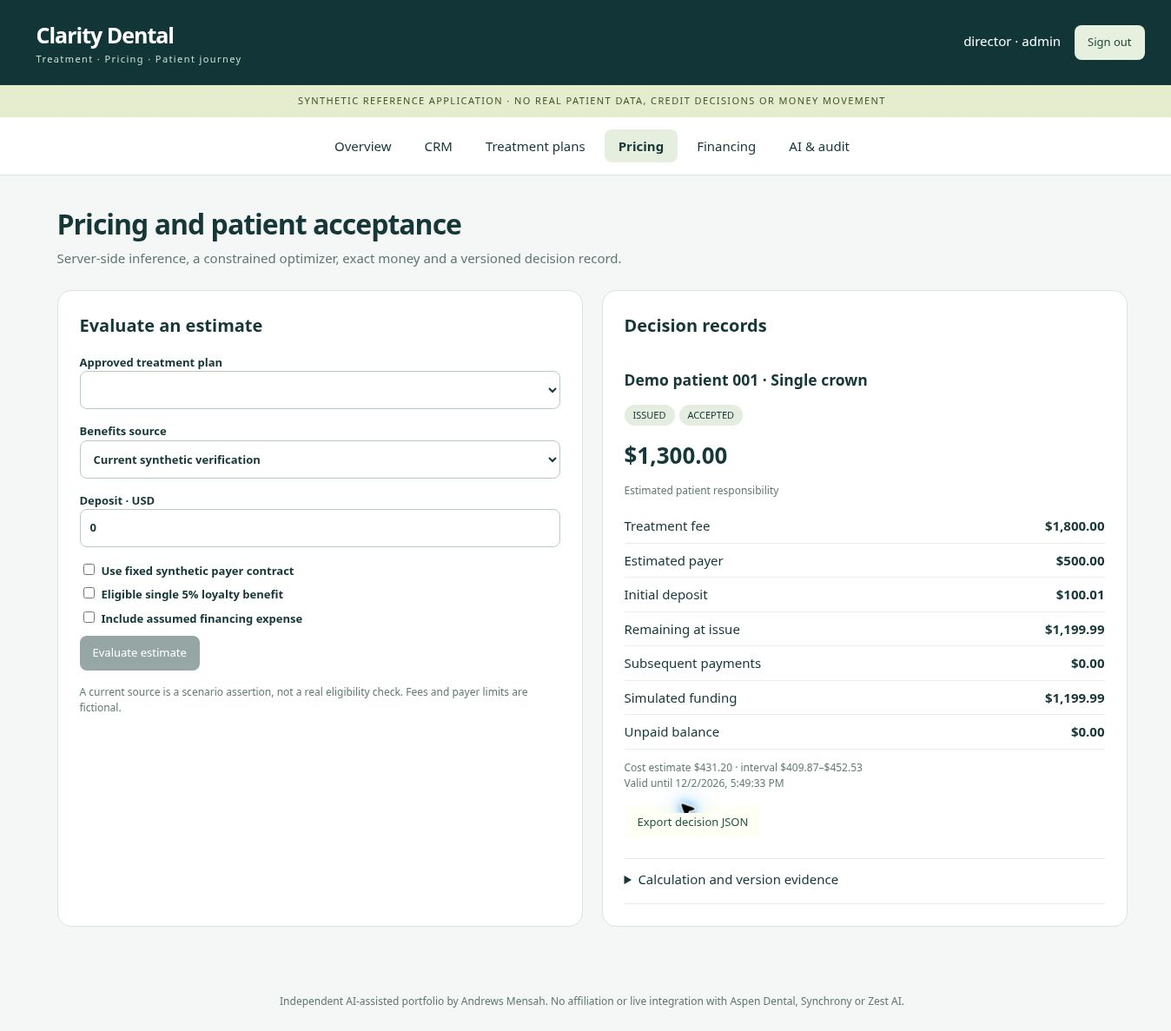
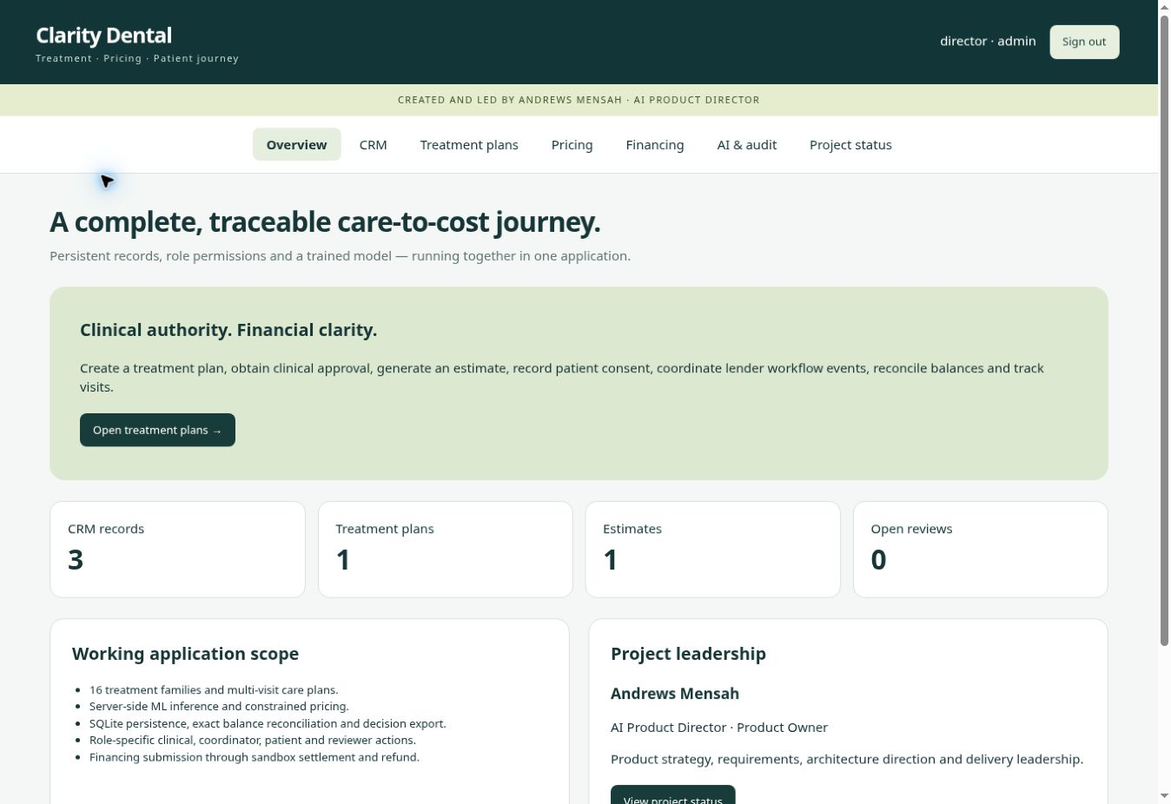
Credit Andrews Mensah's product and architecture leadership across pages, documentation and source code

diff --git a/dist/styles.css b/dist/styles.css
@@ -1,1 +1,5 @@
+/*
+Product vision, requirements, architecture direction and delivery leadership: Andrews Mensah.
+AI-assisted implementation developed under his direction.
+*/
 :root{font-family:Inter,system-ui,sans-serif;color:#173638;background:#f4f7f5;line-height:1.5;font-size:15px}*{box-sizing:border-box}body{margin:0}header{background:#123637;color:white;display:flex;justify-content:space-between;align-items:center;padding:22px max(24px,calc((100vw - 1280px)/2))}a{color:inherit}.brand{font-size:25px;font-weight:750;text-decoration:none;letter-spacing:-1px}.brand span{display:block;font-size:11px;font-weight:400;letter-spacing:1.4px;color:#cadfd4}header button{margin-left:12px}.mode{background:#e5edce;color:#3f542a;font-size:11px;letter-spacing:1.4px;text-align:center;padding:10px}nav{display:flex;gap:6px;padding:14px 24px;justify-content:center;flex-wrap:wrap;border-bottom:1px solid #dbe4dc;background:white}nav a{text-decoration:none;padding:8px 16px;border-radius:8px}nav a.active{background:#e6efdf;font-weight:700}main{max-width:1280px;margin:auto;padding:32px 24px;min-height:65vh}h1{font-size:32px;letter-spacing:-1px;margin:0 0 4px}h2{font-size:20px;margin:0 0 18px}h3{margin:0 0 8px}p.sub{margin:0 0 25px;color:#607675}.grid{display:grid;grid-template-columns:repeat(2,minmax(0,1fr));gap:22px}.panel{background:white;border:1px solid #dae4dc;padding:25px;border-radius:16px;margin-bottom:20px;overflow-wrap:anywhere}.hero{background:#dce8d0;padding:35px;border-radius:18px;margin-bottom:24px}.stats{display:grid;grid-template-columns:repeat(4,1fr);gap:14px;margin-bottom:24px}.stat{background:white;border:1px solid #dae4dc;border-radius:14px;padding:20px}.stat b{display:block;font-size:32px}.field{margin-bottom:16px}label{display:block;font-size:13px;font-weight:600;margin-bottom:6px}input,select{width:100%;padding:11px;border:1px solid #b9cac0;border-radius:8px;background:white;color:#173638;font:inherit}input[type=checkbox]{width:auto;margin-right:8px}button,.button{display:inline-block;border:0;border-radius:8px;padding:10px 15px;background:#173c3a;color:white;cursor:pointer;text-decoration:none;font:inherit;font-size:13px;margin:4px 4px 4px 0}button.secondary{background:#e7efdf;color:#21483e}button.danger{background:#f3e1db;color:#8d3821}button:disabled{opacity:.45;cursor:not-allowed}button:hover:not(:disabled){filter:brightness(1.1)}input:focus,select:focus,button:focus-visible,a:focus-visible{outline:3px solid #81aa53;outline-offset:2px}.pill{display:inline-block;border-radius:20px;font-size:11px;background:#e4eddf;padding:4px 10px;margin-right:5px}.warn{background:#fbefd0}.small{font-size:12px;color:#637b73}.row{display:flex;justify-content:space-between;gap:16px;padding:8px 0;border-bottom:1px solid #e9eee7}.total{font-size:26px;font-weight:750}.notice{padding:14px;background:#f5f1df;border-radius:8px;margin:14px 0;font-size:13px}details{border-top:1px solid #e4eae2;margin-top:18px;padding-top:12px}summary{cursor:pointer}pre{font-size:12px;overflow:auto;background:#f2f5ef;padding:14px;max-height:380px}.login{max-width:520px;margin:30px auto}.inline{display:flex;align-items:end;gap:8px}.inline .field{flex:1}#toast{position:fixed;bottom:24px;right:24px;background:#183d38;color:white;padding:16px 24px;border-radius:12px;max-width:480px;z-index:5}#toast.error{background:#8a3824}footer{padding:25px;text-align:center;color:#61776e;font-size:12px}.list-item{padding:16px 0;border-bottom:1px solid #e6ece5}.steps{font-size:13px;padding-left:20px}.error-panel{border-color:#ba6e4f}table{width:100%;border-collapse:collapse;font-size:13px}td,th{padding:10px;text-align:left;border-bottom:1px solid #e3eade}.table-wrap{overflow:auto}.muted{color:#718579}code{font-size:12px} .badge-line{display:flex;gap:8px;align-items:center;flex-wrap:wrap;margin-bottom:10px}@media(max-width:800px){.grid{grid-template-columns:1fr}.stats{grid-template-columns:repeat(2,1fr)}header{padding:18px;align-items:start}.brand{font-size:21px}#account{font-size:12px;text-align:right}main{padding:22px 16px}nav{padding:10px;gap:0}nav a{padding:8px 10px;font-size:13px}.inline{display:block}h1{font-size:27px}.panel{padding:20px}#toast{left:16px;right:16px;bottom:16px}}

diff --git a/dist/index.html b/dist/index.html
@@ -1,3 +1,4 @@
 <!doctype html>
-<html lang="en"><head><meta charset="utf-8"><meta name="viewport" content="width=device-width,initial-scale=1"><title>Clarity Dental | Treatment and Pricing</title><meta name="description" content="Independent dental pricing reference application by Andrews Mensah. Synthetic data only."><link rel="stylesheet" href="styles.css"></head>
-<body><header><a href="#overview" class="brand">Clarity Dental<span>Treatment · Pricing · Patient journey</span></a><div id="account"></div></header><div class="mode">SYNTHETIC REFERENCE APPLICATION · NO REAL PATIENT DATA, CREDIT DECISIONS OR MONEY MOVEMENT</div><nav id="nav" aria-label="Workspace navigation"></nav><main id="app" tabindex="-1"></main><div id="toast" role="status" aria-live="polite" hidden></div><footer>Independent AI-assisted portfolio by Andrews Mensah. No affiliation or live integration with Aspen Dental, Synchrony or Zest AI.</footer><script type="module" src="app.mjs"></script></body></html>
+<!-- Product vision, requirements, architecture direction and delivery leadership: Andrews Mensah. -->
+<html lang="en"><head><meta charset="utf-8"><meta name="viewport" content="width=device-width,initial-scale=1"><title>Clarity Dental | Treatment and Pricing</title><meta name="description" content="Clarity Dental — created and led by Andrews Mensah. AI pricing, treatment journeys, CRM and financing."><link rel="stylesheet" href="styles.css"></head>
+<body><header><a href="#overview" class="brand">Clarity Dental<span>Treatment · Pricing · Patient journey</span></a><div id="account"></div></header><div class="mode">CREATED AND LED BY ANDREWS MENSAH · AI PRODUCT DIRECTOR</div><nav id="nav" aria-label="Workspace navigation"></nav><main id="app" tabindex="-1"></main><div id="toast" role="status" aria-live="polite" hidden></div><footer>Clarity Dental · Product vision, requirements, architecture direction and delivery leadership: Andrews Mensah. <a href="#status">Project status</a></footer><script type="module" src="app.mjs"></script></body></html>

diff --git a/scripts/check_reproducibility.py b/scripts/check_reproducibility.py
@@ -1,3 +1,5 @@
+# Product vision, requirements, architecture direction and delivery leadership: Andrews Mensah.
+# AI-assisted implementation developed under his direction.
 """Recompute the published artifact from archived generated rows, independently."""
 import csv, json, hashlib
 from pathlib import Path

diff --git a/scripts/train_enterprise.py b/scripts/train_enterprise.py
@@ -1,3 +1,5 @@
+# Product vision, requirements, architecture direction and delivery leadership: Andrews Mensah.
+# AI-assisted implementation developed under his direction.
 """Synthetic multi-treatment model; not calibrated for any actual dental practice."""
 from pathlib import Path
 import numpy as np

diff --git a/scripts/train_model.py b/scripts/train_model.py
@@ -1,3 +1,5 @@
+# Product vision, requirements, architecture direction and delivery leadership: Andrews Mensah.
+# AI-assisted implementation developed under his direction.
 """Reproducible ridge baseline trained ONLY on generated, synthetic dental cost data."""
 from pathlib import Path
 import json

diff --git a/scripts/check_enterprise.py b/scripts/check_enterprise.py
@@ -1,3 +1,5 @@
+# Product vision, requirements, architecture direction and delivery leadership: Andrews Mensah.
+# AI-assisted implementation developed under his direction.
 """Independent reproduction from the archived multifamily CSV."""
 from pathlib import Path
 import csv,json,hashlib

diff --git a/README.md b/README.md
@@ -1,12 +1,29 @@
-# Clarity Dental — Working Reference Application
+# Clarity Dental
 
-AI-assisted portfolio by **Andrews Mensah**. Release **2.0.0** implements a complete **local synthetic workflow**, from CRM and clinical plan approval through pricing, patient consent, simulated financing, ledger reconciliation and visit completion.
+### Created and led by Andrews Mensah
 
-This is an independent reference implementation, not a commissioned Aspen Dental deployment. No live EHR, payer, Synchrony or Zest AI integration or real credit approval exists. The original enterprise vision is larger than this release; [scope and completion matrix](docs/COMPLETENESS.md) states exactly what is implemented and what remains externally blocked.
+**AI Product Director · Product Owner · Architecture and Delivery Lead**
 
-## Run the working application
+Clarity Dental brings treatment planning, AI-driven pricing, CRM, patient consent, financing workflows and financial reconciliation into one integrated application.
 
-Requires **Node.js 24+**. No npm packages, bank credentials or AI API keys are required to run the application.
+Andrews defined the product vision and requirements, directed the architecture and implementation decisions, established delivery priorities, and led iterative reviews of the application, models, tests and documentation. See [leadership and contributions](CONTRIBUTIONS.md).
+
+## Platform capabilities
+
+| Workspace | Capabilities |
+|---|---|
+| CRM | Patient references, contact consent and scoped access |
+| Treatment plans | 16 treatment families, clinical approval, scheduling, visit completion and cancellation |
+| AI pricing | Trained cost estimation, uncertainty intervals, constrained optimization and exact financial calculations |
+| Patient journey | Itemized estimates, separate consents, acceptance and decision exports |
+| Financing | Application, offer, acceptance, funding, decline, withdrawal and refund workflows |
+| Financial operations | Deposits, payment entries, funding reconciliation and outstanding balances |
+| Governance | Role permissions, version checks, idempotency and persistent audit evidence |
+| Operations | Health checks, database persistence, backup and recovery tooling |
+
+## Run the application
+
+Requires Node.js 24+.
 
 ```bash
 git clone https://github.com/anmensah44-spec/dental-pricing-ai-prototype.git
@@ -14,42 +31,24 @@ cd dental-pricing-ai-prototype
 npm start
 ```
 
-Open **http://127.0.0.1:4173/**. Choose a role and click **Open sample workspace**. Public synthetic accounts are `coordinator`, `dentist`, `reviewer`, `director`, and `patient`. Default sample password: `Clarity-Demo-2026!`. These shared sample identities are not enterprise identity management. The patient account is scoped to Demo patient 001.
+Open http://127.0.0.1:4173/. Select coordinator, dentist, reviewer, director or patient and choose **Open sample workspace**. The default project-account password is `Clarity-Demo-2026!`. The patient account is assigned to Demo patient 001. Records persist in SQLite across browser refresh and server restart.
 
-The server creates `data/clarity.sqlite`. Records survive sign-out, browser refresh and server restart. Database files and secrets are ignored by Git. Use fictional data only. A static file server or GitHub Pages alone cannot run this version: it needs its Node backend.
+## Explore the workflow
 
-## Complete a journey
+1. Coordinator creates a treatment plan.
+2. Dentist reviews and approves it.
+3. Coordinator evaluates pricing and records estimate acceptance.
+4. Patient or coordinator records separate financing consent.
+5. Director exercises the sandbox provider workflow; patient records offer consent.
+6. Pricing reconciles deposits, payment entries and funding events.
+7. Coordinator schedules visits; dentist completes them.
+8. Director or reviewer inspects audit evidence.
 
-1. **Coordinator → Treatment plans:** create a Single crown plan for Demo patient 001.
-2. Sign out; **dentist:** clinically approve that draft.
-3. **Coordinator → Pricing:** evaluate the approved plan, inspect costs and patient responsibility, record explicit estimate acceptance.
-4. Submit separate financing consent. **Director → Financing:** simulate an offer.
-5. **Patient:** separately accept the simulated offer. **Director:** simulate funding.
-6. **Pricing:** verify unpaid balance is zero; export the decision. A simulated refund restores the outstanding balance; synthetic payments can then settle it.
-7. **Treatment plans:** schedule visits. Dentist can complete visits after their scheduled times; all illustrative visits complete the pathway.
-8. **Director → AI & audit:** inspect the hash-chain audit evidence.
+[Open the walkthrough](demo/WALKTHROUGH.md).
 
-See [walkthrough](demo/WALKTHROUGH.md) for failure paths and role changes.
+![Clarity Dental application](demo/screenshots/application-v2.jpg)
 
-## What runs end to end
-
-| Area | Implemented behavior |
-|---|---|
-| CRM | Synthetic patient references and explicit contact consent |
-| Clinical | Draft, clinician approval, scheduling, visit completion and cancellation |
-| Coverage | 16 synthetic treatment categories, with illustrative visit counts |
-| AI | Server-side ridge cost inference; training/calibration/test artifacts and independent checks |
-| Pricing | Cent-level optimizer, movement cap, margin constraint, contract precedence and single discount |
-| Consent | Separate estimate, application and simulated offer acceptance |
-| Financing | Pending, offered, accepted, funded, declined, withdrawn and refunded states; local simulator |
-| Financial ledger | Deposit, subsequent synthetic payments, simulated funding/refund, unpaid balance |
-| Review | Infeasible estimates remain blocked; reviewer dispositions cannot issue a quote |
-| Integrity | Transactions, idempotency, optimistic versions, patient scope and append-only hash-chain events |
-| Operations | Health checks, persisted records, online SQLite backup and recovery checks |
-
-![Working application](demo/screenshots/application-v2.jpg)
-
-## Test and reproduce
+## Validate the project
 
 ```bash
 npm test
@@ -59,21 +58,18 @@ pip install -r scripts/requirements.txt
 npm run evidence
 ```
 
-Tests cover happy and rejected paths, exact reconciliation, role and patient access, duplicate commands, stale versions, expiry, simulated funding/refund, visits, audit and restart/backup recovery. Python verifies both the retained v1 model and active 16-family model. All model results are synthetic, not real dental accuracy evidence.
+The validation record contains 36 passing checks, pricing matrices, HTTP workflow tests, concurrent-retry checks, model reproduction, browser review and GitHub CI results. See [executed evidence](evidence/VALIDATION.md).
 
-See [validation record](evidence/VALIDATION.md) for executed counts, browser checks and GitHub CI. Container files are supplied as an alternate launch path, but Docker execution is unverified in this workspace.
+## Project documentation
 
-## Repository access and the 404
-
-This repository is **public**, following owner confirmation on 2026-11-18. Interviewers can view and clone the source without collaborator access. The earlier 404 was caused by private visibility. Repository visibility is separate from application hosting; this URL displays source code, not a running web application.
-
-## Inspect the evidence
-
-- [Completion matrix and external blockers](docs/COMPLETENESS.md)
-- [Architecture](docs/architecture/SOLUTION.md) and [implemented API](docs/architecture/API_DESIGN.md)
-- [Product charter](docs/product/CHARTER.md), [roadmap](docs/product/STRATEGY_ROADMAP.md), [case study](docs/product/CASE_STUDY.md)
+- [Product charter and business case](docs/product/CHARTER.md)
+- [Strategy and roadmap](docs/product/STRATEGY_ROADMAP.md)
+- [Leadership case study](docs/product/CASE_STUDY.md)
+- [Solution architecture](docs/architecture/SOLUTION.md)
+- [API contracts](docs/architecture/API_DESIGN.md)
 - [Requirements traceability](docs/requirements/TRACEABILITY.md)
-- [Model/data card](docs/governance/MODEL_CARD.md), [governance](docs/governance/READINESS.md), [security](SECURITY.md)
-- [Operations and backup](docs/OPERATIONS.md), [contribution disclosure](CONTRIBUTIONS.md)
+- [Model methodology](docs/governance/MODEL_CARD.md)
+- [Operations and recovery](docs/OPERATIONS.md)
+- [Project status, data provenance and integration environment](docs/PROJECT_STATUS.md)
 
-The broader enterprise system still requires real-data rights, vendor agreements/APIs, independently validated models, real clinical/finance policy, organization identity, deployment infrastructure and operational acceptance. Those cannot be completed by changing labels or substituting simulated results.
+The repository is public and can be shared with recruiters and technical reviewers. GitHub hosts the source; the application runs on its Node backend. The Project status page records the evaluation-data setup, sandbox connections and external integration requirements in one place.

diff --git a/docs/product/CHARTER.md b/docs/product/CHARTER.md
@@ -1,27 +1,27 @@
-> Release 2 update: working server-backed synthetic implementation now covers 16 treatment families, CRM, clinical approval, persistent audit, consent, simulated financing settlement and visit tracking. Earlier two-family statements below describe the initial release only. See docs/COMPLETENESS.md for current implementation and external blockers. No real client deployment or business outcomes are claimed.
-
 # Product charter and business case
 
-Owner: Andrews Mensah. Status: independent prototype; baseline 2026-11-18.
+**Product owner and AI Product Director: Andrews Mensah**
 
-## Problem and intended users
+## Vision
 
-Dental estimates combine treatment costs, approved care plans, price constraints, benefits and patient payment choices. The hypothesis is that transparent estimates and exception routing can reduce pricing rework while preserving clinical and financial authority. Intended users are treatment coordinators, finance reviewers and product/clinical governance teams.
+Create a unified dental care-to-cost platform that connects treatment plans, transparent estimates, patient choice, CRM and financing workflows. Andrews established the vision, scope, requirements and architecture direction and directed delivery of the integrated application.
 
-## Measurable objectives
+## Users and value
 
-Prototype gates: reproducible model artifact; correct cent arithmetic; no issued self-pay estimate violating configured movement/margin limits; clear blocked routes; finance outcomes visibly simulated. Production hypotheses: lower median estimate preparation time, fewer manual corrections, better patient comprehension and stable contribution margins. These require measured baseline and controlled pilot; no savings or conversion lift has been demonstrated.
+Treatment coordinators prepare and explain estimates; clinicians control treatment approval and visit completion; patients manage acceptance and separate financing consent; finance and reviewers inspect constraints, exceptions and reconciled balances.
 
-## Release boundary
+The value hypothesis is reduced estimate preparation and rework, more understandable patient costs and consistent financial controls. The product measures operational results alongside safety and reconciliation indicators.
 
-Executable scope is two fictional treatment families, one synthetic benefits policy and one simulated financing journey. Enterprise requirements span CRM/EHR ingestion, real contract versions, longitudinal plans, multi-office access, vendor adapters and monitoring. Clinical treatment selection, live underwriting, disbursement and real patient data are excluded from this release.
+## Delivered application
 
-## Business case method
+Sixteen treatment families; CRM and consent; clinical plan approval and visit tracking; server-side ML cost estimation; constrained cent-level pricing; exact payer/patient/deposit arithmetic; versioned acceptance; financing lifecycle; payment and funding reconciliation; persistent database; scoped roles; audit and recovery tooling.
 
-Establish estimates/month, current handling minutes, loaded labor rate, rework cost, infrastructure cost, licensing, integration effort and support cost with accountable owners. Annual labor opportunity = eligible volume × minutes saved ÷ 60 × loaded hourly cost. Net value subtracts implementation and recurring costs and includes an uncertainty range. Do not treat an estimate as booked savings or combine increased collections with the same revenue twice.
+## Business case
 
-A pilot must compare eligible offices/cohorts, track case mix and seasonal changes, and measure safety/error rates alongside commercial outcomes. Finance owns value validation; clinical leadership owns appropriateness. The product sponsor recommends go/no-go after independent evidence review.
+Baseline estimates per month, handling time, rework, loaded labor rates, model/data costs, infrastructure, integration and support costs. Calculate annual handling opportunity as eligible volume × minutes saved ÷ 60 × loaded hourly cost, then subtract implementation and recurring costs. Finance validates benefits through a controlled pilot, accounting for case mix and seasonality.
 
-## Acceptance and accountability
+## Product accountability
 
-Technical lead owns reproducibility and system integrity; finance owns signed policy; clinical lead owns treatment approval process; data science owns model validity; security/privacy own real-data readiness; lender owns lending decisions. These are proposed accountable roles, not assigned personnel. Open commercial assumptions include vendor rights, APIs, pricing and underwriting responsibilities. Deployment beyond synthetic use is gated by the readiness register.
+Andrews directs vision, scope, priorities and acceptance expectations. Clinical leadership owns treatment policy; finance owns fee/discount/contract policy; data science owns model evidence; engineering owns reliability; security and privacy own deployment controls. The release evidence connects requirements to executed tests.
+
+Current data and integration details: [Project status](../PROJECT_STATUS.md).

diff --git a/docs/product/CASE_STUDY.md b/docs/product/CASE_STUDY.md
@@ -1,25 +1,23 @@
-> Release 2 update: working server-backed synthetic implementation now covers 16 treatment families, CRM, clinical approval, persistent audit, consent, simulated financing settlement and visit tracking. Earlier two-family statements below describe the initial release only. See docs/COMPLETENESS.md for current implementation and external blockers. No real client deployment or business outcomes are claimed.
+# Product leadership case study — Clarity Dental
 
-# Leadership case study: Clarity Dental Pricing AI
+**Andrews Mensah · AI Product Director · Product Owner · Architecture and Delivery Lead**
 
-## Challenge
+## Product challenge
 
-Design a credible dental pricing platform connecting clinical approval, estimated costs, financial controls, patient communication and financing. The product discussion referenced Aspen Dental and potential Synchrony/Zest AI involvement; no relationship or integration was verified or implemented.
+Bring clinical treatment planning, AI-driven cost estimation, controlled pricing, patient acceptance, CRM and financing together in one coherent platform.
 
-## Product decisions
+## Andrews’s leadership
 
-The owner prioritized AI at the center of pricing. The implementation translates that intent into a trained cost model feeding constrained optimization, with integer financial calculations and explicit review routes. This makes learned uncertainty visible without delegating exact money arithmetic or clinical authority to a language model.
+Andrews originated the product vision and scope, defined the treatment and patient journeys, required CRM and financing integration in the design, and directed architectural and delivery decisions. He challenged incomplete documentation and scope gaps, set priorities, reviewed successive implementations and directed the move from a browser-only release to an integrated server-backed application.
 
-The first release narrows broad enterprise ambitions to two fictional families so that actual working behavior can be inspected. The financing journey is a simulator because real lender decision authority, contracts, API access and underwriting prerequisites are absent.
+## Decisions translated into implementation
 
-## Evidence produced
+The application uses learned cost estimation with constrained optimization and exact financial arithmetic. Clinical approval remains a separate role-controlled workflow. Estimates carry model and policy references; separate consents distinguish treatment acceptance, application submission and offer acceptance. Transactions, version checks and idempotency protect the workflow. A persistent audit and a reconciled ledger connect the journey from plan to completion.
 
-Runnable application, model training script, held-out synthetic evaluation, control tests, architecture and requirements mapping. Evaluation and validation files carry executed results. GitHub workflow configuration is provided but is not proof that CI has run.
+## Delivered evidence
 
-## Outcomes and limits
+Working application; 16-family model and reproducible training pipeline; CRM and clinical workflows; pricing and finance lifecycle; role permissions and patient scoping; audit and backup tooling; product, requirements and architecture documentation; 36 passing tests and successful GitHub CI on the functional release. AI-assisted engineering tools supported implementation under Andrews’s direction.
 
-A functional synthetic prototype and a documented enterprise implementation path exist. No production deployment, patient benefit, revenue lift, cost saving, fair-lending validation or operational adoption is claimed. The next business milestone is discovery and an approved shadow-pilot plan with representative data and accountable clinical/finance owners.
+## Evaluation and next decisions
 
-## Interview discussion
-
-Explain why scope was reduced, how price caps constrain the optimizer, how uncertainty changes margin feasibility, why bank underwriting stays with the lender, and what evidence would justify a production pilot. See CONTRIBUTIONS.md for AI assistance and ownership boundaries.
+The evidence demonstrates integrated application behavior and technical controls. Practice-level benefits will be measured through an approved operational rollout. [Project status](../PROJECT_STATUS.md) records current data provenance, partner connections and validation stages.

diff --git a/docs/product/STRATEGY_ROADMAP.md b/docs/product/STRATEGY_ROADMAP.md
@@ -1,19 +1,18 @@
-> Release 2 update: working server-backed synthetic implementation now covers 16 treatment families, CRM, clinical approval, persistent audit, consent, simulated financing settlement and visit tracking. Earlier two-family statements below describe the initial release only. See docs/COMPLETENESS.md for current implementation and external blockers. No real client deployment or business outcomes are claimed.
+# Product strategy and roadmap
 
-# Product strategy and delivery roadmap
+**Strategy, architecture direction and delivery leadership: Andrews Mensah**
 
-The differentiation hypothesis is an explainable pricing journey combining learned cost estimation with enforceable policy and traceable exception handling. The prototype demonstrates feasibility on synthetic cases; it does not validate demand or clinical performance.
+The strategy combines learned treatment-cost estimation with explicit pricing constraints, exact financial arithmetic and a connected patient journey. Andrews prioritized an integrated workflow spanning clinical authority, pricing, CRM, consent, financing and financial operations.
 
-| Stage | Deliverable | Exit evidence | Accountable role |
-|---|---|---|---|
-| 0: portfolio | Two-family executable demo and evidence | Passing local tests, walkthrough, honest scope | Product owner / tech lead |
-| 1: discovery | Signed workflows, contract inventory, baseline KPIs | Clinical/finance approvals and data rights | BA / business owners |
-| 2: foundation | Authenticated services, versioned policy, adapter contracts | Integration, security and recovery tests | Architect / engineering |
-| 3: model validation | Representative labeled costs; temporal/site holdouts | Approved error, calibration, subgroup and drift thresholds | Data science / model risk |
-| 4: shadow pilot | Compare without affecting live estimates | Independent reconciliation and incident exercises | Clinical / finance / operations |
-| 5: bounded rollout | Controlled offices, feature flags, manual fallback | Signed pilot scorecard and rollback rehearsal | Product director / release owner |
-| 6: expansion | More treatments, CRM and partner workflows | Separate approval for each use and geography | Executive steering group |
+| Delivery area | Current capability | Expansion focus |
+|---|---|---|
+| Experience | CRM, clinical, pricing, financing and audit workspaces | User research and accessibility validation |
+| AI | 16-family trained model, uncertainty and reproducible evaluation | Authorized practice data and site/time validation |
+| Pricing | Fee movement, margin, contract and discount controls | Governed real contract feeds and policy publication |
+| Patient journey | Acceptance, separate consents and visit tracking | Partner-specific channels and communication |
+| Operations | Persistence, roles, idempotency, audit and recovery | Organization identity, scale and operational rollout |
+| Integrations | Local adapters and sandbox financing | Authorized EHR, payer, CRM and lender connections |
 
-No delivery dates or budgets are committed without staffing and discovery. Prioritize safety and reconciliation before conversion optimization. Do not optimize individual prices using protected traits, credit vulnerability or inferred willingness to pay. Treatment recommendation remains clinician-led.
+Measure estimate handling time, rework, exception rates, reconciliation accuracy, model error/coverage and patient comprehension. Release decisions consider both business value and control performance. Clinical and financial policy owners validate their domains before operational expansion.
 
-Success measures need owners, numerator/denominator, source, frequency, exclusions and baseline. Include estimate latency, override/rework rate, unsupported-case rate, reconciliation errors, model error by family/site and complaints. Pause automation for unexplained reconciliation differences, stale contract data or unsafe error rates; thresholds must be agreed before a real pilot.
+See [Project status](../PROJECT_STATUS.md) for the current environment and [validation evidence](../../evidence/VALIDATION.md) for executed checks.

diff --git a/docs/COMPLETENESS.md b/docs/COMPLETENESS.md
@@ -1,15 +1,15 @@
 # Completion matrix — release 2.0.0
 
-Reviewed 2026-11-18. Definition of done for this release: a runnable synthetic reference application with durable records, role-separated workflows, ML inference, exact pricing, simulated finance lifecycle, documented operation and executed tests. It is not completion of the broader real-world enterprise implementation.
+Reviewed 2026-11-18. Definition of done for this release: a runnable evaluation reference application with durable records, role-separated workflows, ML inference, exact pricing, simulated finance lifecycle, documented operation and executed tests. Integration and deployment stages are recorded in [Project status](PROJECT_STATUS.md).
 
 | Original gap | Current implementation / evidence | Remaining boundary |
 |---|---|---|
 | Browser-only storage | SQLite WAL; restart and backup recovery tests | Single instance; no HA or multi-region deployment |
-| No authentication | Scrypt passwords, server sessions, CSRF and roles | Shared synthetic accounts; no SSO/MFA/account administration |
+| No authentication | Scrypt passwords, server sessions, CSRF and roles | Shared evaluation accounts; no SSO/MFA/account administration |
 | Clinical approval checkbox | Clinician-only plan command and active-plan checks | Actual clinical policy and clinical record integration unavailable |
-| Two treatment families | 16-family synthetic model and pathway catalog | Visit counts illustrative; no real validated fee data |
-| Client-side pricing | Server inference, cent search, input validation | Synthetic policy; no real contracts/adjudication |
-| No CRM | Local synthetic CRM with contact consent | No external CRM synchronization |
+| Two treatment families | 16-family evaluation model and pathway catalog | Visit counts illustrative; no real validated fee data |
+| Client-side pricing | Server inference, cent search, input validation | Evaluation policy; no real contracts/adjudication |
+| No CRM | Local evaluation CRM with contact consent | No external CRM synchronization |
 | Incomplete financing | Consent, pending, offer, acceptance, funding, refund, decline, withdrawal | Local simulator only; lender credentials/contract absent |
 | No auditable lifecycle | Transactional entity versions, event chain, duplicate protection | Privileged DB owner can alter data; no external audit anchor |
 | No acceptance authority | Server expiry, active-plan and one-accepted-estimate checks | No legally binding e-signature system |
@@ -23,3 +23,5 @@ Reviewed 2026-11-18. Definition of done for this release: a runnable synthetic r
 Aspen Dental system access and permission; authoritative treatment, cost and payer data; Synchrony and Zest AI commercial/technical discovery and sandbox credentials; signed clinical/finance policies; real-data privacy/security/model-risk review; a selected hosting account and budget. None was supplied or independently established by this project.
 
 No live underwriting is performed. No ML score determines a real person's lending eligibility. No real funds move. Unsupported real-world operation remains blocked rather than silently simulated.
+
+Product and architecture direction: **Andrews Mensah**. [Project status](PROJECT_STATUS.md).

diff --git a/docs/governance/MODEL_CARD.md b/docs/governance/MODEL_CARD.md
@@ -1,9 +1,9 @@
 # Active model and data card — synthetic-multifamily-ridge-2
 
-Intended use: a working synthetic reference application, not real clinical, pricing or lending decisions. Features are sixteen treatment intercepts, chair minutes and laboratory cost USD. Active artifact: dist/cost-model.json. The v1 two-family model remains as historical regression evidence.
+Intended use: a working generated-data reference application, not real clinical, pricing or lending decisions. Features are sixteen treatment intercepts, chair minutes and laboratory cost USD. Active artifact: dist/cost-model.json. The v1 two-family model remains as historical regression evidence.
 
-The generator scripts/train_enterprise.py produces 4,800 independent synthetic rows: 300 per family. Within each family, 180 train, 60 calibrate and 60 test: total 2,880/960/960. A known category-linear formula plus Gaussian noise generates costs. It is not representative patient/practice data. There are no personal, protected-trait or credit features. Chair/lab support spans 15–180 minutes and $0–$1,500; these are simulation boundaries, not clinical norms.
+The generator scripts/train_enterprise.py produces 4,800 independent generated-data rows: 300 per family. Within each family, 180 train, 60 calibrate and 60 test: total 2,880/960/960. A known category-linear formula plus Gaussian noise generates costs. It is not representative patient/practice data. There are no personal, protected-trait or credit features. Chair/lab support spans 15–180 minutes and $0–$1,500; these are simulation boundaries, not clinical norms.
 
-Ridge penalty is 0.01. The empirical higher 90th percentile calibration residual sets a symmetric interval. It is not a guaranteed cost upper bound. Reported held-out MAE is approximately $9.45 and coverage approximately 91.77%, only on this synthetic generator. Family metrics and mean-baseline comparison appear in evidence/multifamily_evaluation.json. scripts/check_enterprise.py independently verifies archived CSV checksum, coefficients, calibration and test error. Linear generation favors ridge and cannot establish real-world superiority.
+Ridge penalty is 0.01. The empirical higher 90th percentile calibration residual sets a symmetric interval. It is not a guaranteed cost upper bound. Reported held-out MAE is approximately $9.45 and coverage approximately 91.77%, only on this generated-data generator. Family metrics and mean-baseline comparison appear in evidence/multifamily_evaluation.json. scripts/check_enterprise.py independently verifies archived CSV checksum, coefficients, calibration and test error. Linear generation favors ridge and cannot establish real-world superiority.
 
 A real release requires representative licensed cost labels, clinical and financial validation, site/time/patient holdouts, leakage checks, calibrated uncertainty, subgroup/error monitoring and approved rollback criteria. No credit model, LLM, image model or vendor model is called. Exact arithmetic and policy constraints are deterministic parts of the AI-enabled system.
